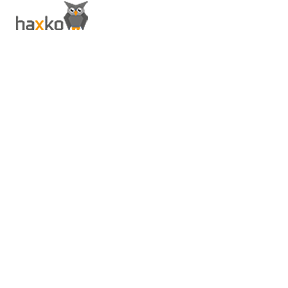
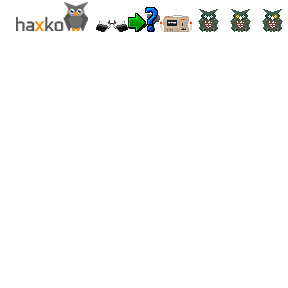
Modified museum, and added Cybertape to ICs

Changed region(s): [[0.3125, 0.0, 0.875, 0.125], [0.0625, 0.0, 0.3125, 0.125], [0.9062, 0.0312, 1.0, 0.125]]

diff --git a/src/tiles/museum_gaffa.tsx b/src/tiles/museum_gaffa.tsx
@@ -4,19 +4,26 @@
  <tile id="0">
   <animation>
    <frame tileid="0" duration="1000"/>
-   <frame tileid="3" duration="100"/>
+   <frame tileid="61" duration="100"/>
   </animation>
  </tile>
  <tile id="1">
   <animation>
    <frame tileid="1" duration="1000"/>
-   <frame tileid="3" duration="100"/>
+   <frame tileid="62" duration="100"/>
   </animation>
  </tile>
  <tile id="2">
   <animation>
    <frame tileid="2" duration="1000"/>
-   <frame tileid="3" duration="100"/>
+   <frame tileid="71" duration="100"/>
+  </animation>
+ </tile>
+ <tile id="6">
+  <animation>
+   <frame tileid="6" duration="200"/>
+   <frame tileid="7" duration="200"/>
+   <frame tileid="8" duration="200"/>
   </animation>
  </tile>
 </tileset>
